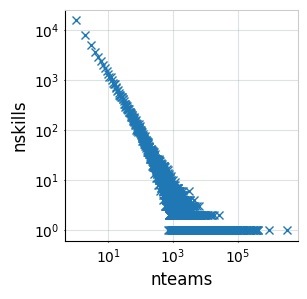
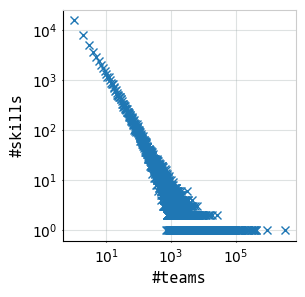
latest stats after filtering (final testbed)

diff --git a/src/cmn/team.py b/src/cmn/team.py
@@ -221,6 +221,8 @@ class Team(object):
 
     @staticmethod
     def plot_stats(stats, output):
+        csfont = {'fontname': 'Consolas'}
+        hfont = {'fontname': 'Consolas'}
         for k, v in stats.items():
             if '*' in k:
                 print(f'{k} : {v}')
@@ -228,8 +230,8 @@ class Team(object):
             fig = plt.figure(figsize=(3, 3))
             ax = fig.add_subplot(1, 1, 1)
             ax.loglog(*zip(*stats[k].items()), marker='x', linestyle='None')
-            ax.set_xlabel(k.split('_')[1].replace('n', '#', 0))
-            ax.set_ylabel(k.split('_')[0].replace('n', '#', 0))
+            ax.set_xlabel(k.split('_')[1][0].replace('n', '#') + k.split('_')[1][1:], **hfont)
+            ax.set_ylabel(k.split('_')[0][0].replace('n', '#') + k.split('_')[0][1:], **hfont)
             ax.grid(True, color="#93a1a1", alpha=0.3)
             ax.spines['right'].set_color((.8, .8, .8))
             ax.spines['top'].set_color((.8, .8, .8))

diff --git a/data/preprocessed/imdb/title.basics.tsv.filtered.mt75.ts3/readme.md b/data/preprocessed/imdb/title.basics.tsv.filtered.mt75.ts3/readme.md
@@ -1,0 +1,29 @@
+Public link to download: https://datasets.imdbws.com/
+
+In this dataset, `title` stands for any type of moving pictures and id is ``tconst`` and ``name`` stands for a person (cast/crew) and id is ``nconst``. 
+
+``titleType`` distinguishes the different types of moving pictures including: movie, short, video game, video, tvMovie, tvepisode, other. We only considered ``movie``.
+
+**Stats:  (title.basics ⋈ title.principals ⋈ name.basics)**
+
+|``Movie`` Stat (Filtered) | Value|
+|-----|------|
+|#Movies (teams)| 32,059|
+|#Unique CastnCrew (Principals) (members) |2,011|
+|#Unique Genre (skills)|23|
+|Avg #CastnCrew per Movie| 3.98|
+|Avg #Genre per Movie |1.76|
+|Avg #Movies per CastnCrew |62.45|
+|Avg #Genre per CastnCrew |10.85|
+|#Movie w/ Single CastnCrew|0|
+|#Movie w/ Single Genre |15,180|
+
+
+|titleType Stat| Value|
+|-----|------|
+|#Short| 263029|
+|#Video|129554|
+|#TV Movie|65318|
+|#Video Game|9959|
+|#TV Episode|2027640|
+|#Other|119567|

diff --git a/data/preprocessed/dblp/dblp.v12.json.filtered.mt75.ts3/readme.md b/data/preprocessed/dblp/dblp.v12.json.filtered.mt75.ts3/readme.md
@@ -1,0 +1,18 @@
+Public link to download: https://originalstatic.aminer.cn/misc/dblp.v12.7z
+
+![image](https://user-images.githubusercontent.com/8619934/144217360-00675fc0-da7e-42cb-8140-424a46fd7c98.png)
+
+**Stats:**
+
+|Stat (Filtered) | Value|
+|-----|------|
+|#Publications (teams)| 99,375|
+|#Unique Authors (members) |14,214|
+|#Unique Field of Study (FOS) (skills)|29,661|
+|Avg #Author per Publication| 3.29|
+|Avg #FOS per Publication|9.71|
+|Avg #Publication per Author|23.02|
+|Avg #FOS per Author|96.72|
+|#Publication w/o FOS|?|
+|#Publication w/ Single Author|0|
+|#Publication w/ Single Skill|56|
